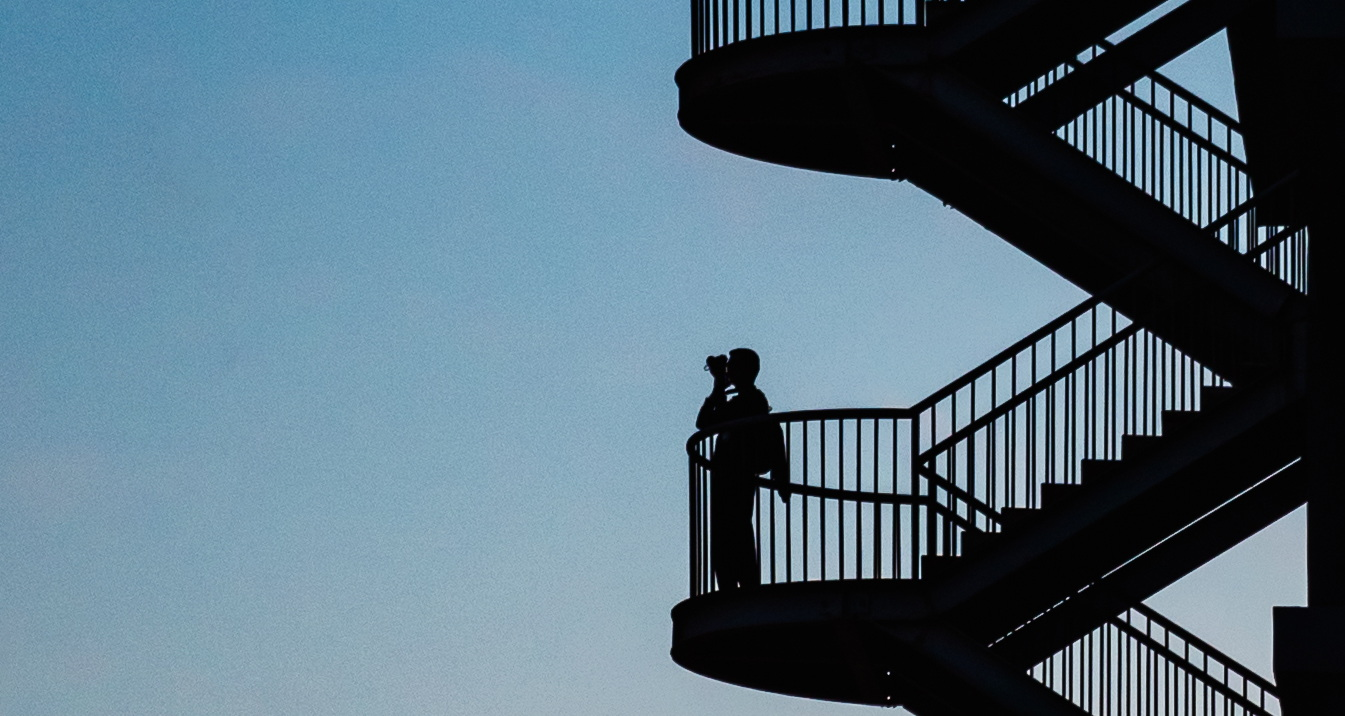
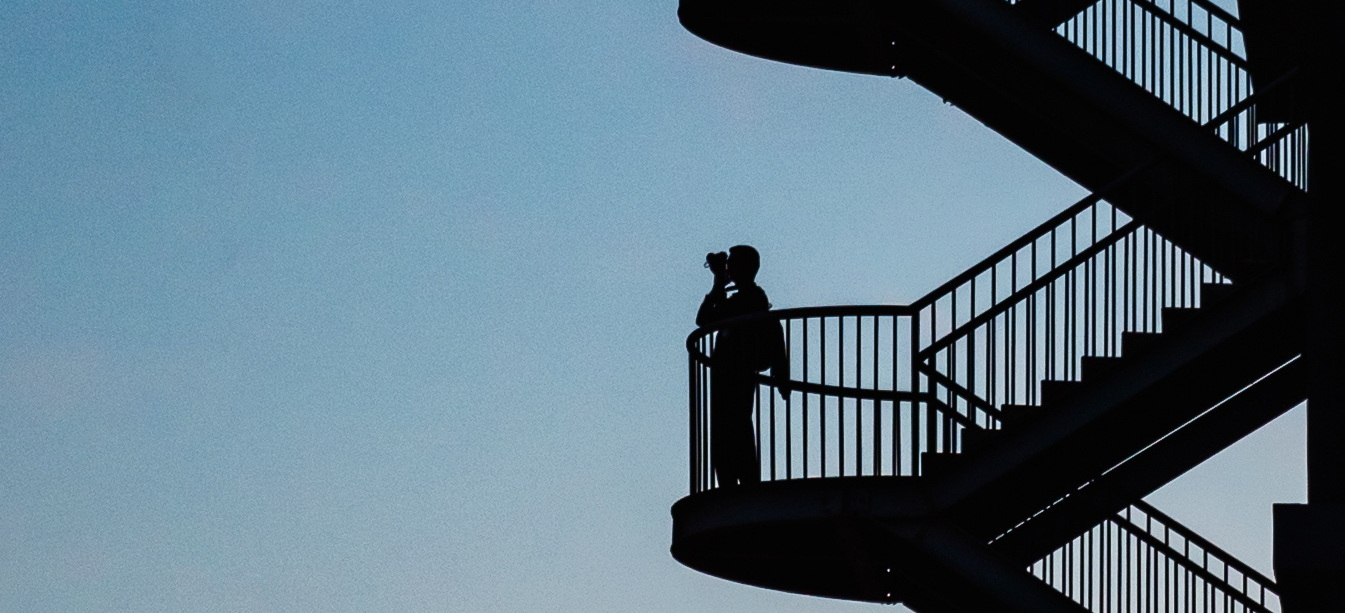
261116v1

diff --git a/static/css/main.css b/static/css/main.css
@@ -125,6 +125,7 @@ h1, h2, h3, h4, p { margin-top: 0; }
 .ranking-badge-b { color: #8c6bac; border-color: #e7ddf3; background: #f9f5fe; }
 .highlight-badge { color: #9f7932; border-color: #ebdfc7; background: #fdf8eb; }
 .format-badge { color: #5c8b81; border-color: #dae9e4; background: #f4faf7; }
+.preprint-badge { color: #626d7f; border-color: #e1e5eb; background: #f1f3f6; }
 .publication-links { display: flex; flex-wrap: wrap; gap: 7px; font-size: 0; }
 .publication-links a { display: inline-flex; align-items: center; gap: 5px; padding: 3px 8px; border: 1px solid #e0e7f1; border-radius: 5px; color: #61758d; font-size: 10px; font-weight: 500; text-decoration: none; background: #fff; transition: border-color .2s, color .2s; }
 .publication-links a:hover { color: var(--blue); border-color: #b9d1f0; }

diff --git a/static/js/scripts.js b/static/js/scripts.js
@@ -190,6 +190,7 @@ function decoratePublications(container) {
         if (/CCF-?\s*B/i.test(label)) badge.classList.add("ranking-badge-b");
         if (/oral|spotlight/i.test(label)) badge.classList.add("highlight-badge");
         if (/poster/i.test(label)) badge.classList.add("format-badge");
+        if (/^(arxiv\b|preprint$)/i.test(label)) badge.classList.add("preprint-badge");
       });
       content.prepend(badges);
     }

diff --git a/contents/paper_fig/README.md b/contents/paper_fig/README.md
@@ -6,5 +6,6 @@ These files are served locally with the homepage. To replace a figure, overwrite
 - `aaai2026.png`: E-Logic Prompt framework figure from the [coauthor's publication page](https://scs.tju.edu.cn/jswz/wanliang/20260429/publications.html), using its [public figure image](https://scs.tju.edu.cn/jswz/wanliang/20260429/paper/image/2026/e-logic-prompt-unified-energy-logic-framework-for-continual-visual-question-answering.png).
 - `cvpr2026.png`: Figure 2 (Dynamic Alignment Graph Regularization) rendered from the authors' [CVPR 2026 paper](https://openaccess.thecvf.com/content/CVPR2026/papers/Tan_Towards_Dynamic_Modality_Alignment_in_Multimodal_Continual_Learning_CVPR_2026_paper.pdf), page 4.
 - `icme2026.png`: Original figure provided locally by Tianle Liu.
+- `ttd-hashing-memory.png`: Framework overview from the authors' [arXiv paper](https://arxiv.org/html/2503.10699v1), using its [original overview image](https://arxiv.org/html/2503.10699v1/overview.png). Paper: Fan Lyu, Tianle Liu, Zhang Zhang, Fuyuan Hu, Liang Wang, *Test-Time Discovery via Hashing Memory*, arXiv:2503.10699 (2025), CC BY 4.0.
 
 The homepage does not fetch any of these images from an external site at runtime.

diff --git a/contents/awards.md b/contents/awards.md
@@ -1,7 +1,5 @@
-- 一种视觉大模型持续更新方法及系统 CN 120162731 A
-
-- 一种神经网络模型中未知数据的发现方法、装置和设备 CN 120892881 A
-
-- 江苏省研究生科研创新计划立项 KYCX25_3572 —— 在线测试时新类发现的持续学习模型方法研究
-
 - 计算机技术与软件专业技术资格  高级资格  信息系统项目管理师
+- 2026年 研究生国家奖学金
+- 一种视觉大模型持续更新方法及系统 CN 120162731 A
+- 一种神经网络模型中未知数据的发现方法、装置和设备 CN 120892881 A
+- 江苏省研究生科研创新计划立项 KYCX25_3572 —— 在线测试时新类发现的持续学习模型方法研究

diff --git a/contents/publications.md b/contents/publications.md
@@ -35,3 +35,14 @@
   **Expansive Geometry Stabilization for Exemplar-free Continual Learning with Pre-trained Models**
 
   Yinying Mei\*, Linlan Zhao\*, **Tianle Liu**, Fenglei Xu, Fuyuan Hu, Fan Lyu
+
+- [![Overview of the prototype and locality-sensitive hashing classifiers for test-time discovery](contents/paper_fig/ttd-hashing-memory.png)](https://arxiv.org/abs/2503.10699)
+
+  `arXiv 2025` `Preprint`
+
+  **Test-Time Discovery via Hashing Memory**
+
+  Fan Lyu*, **Tianle Liu**\*, Zhang Zhang, Fuyuan Hu, Liang Wang
+
+  [Paper](https://arxiv.org/abs/2503.10699) · [Code](https://github.com/fanlyu/ttd)
+

diff --git a/contents/publications-all.md b/contents/publications-all.md
@@ -35,3 +35,13 @@
   **Expansive Geometry Stabilization for Exemplar-free Continual Learning with Pre-trained Models**
 
   Yinying Mei\*, Linlan Zhao\*, **Tianle Liu**, Fenglei Xu, Fuyuan Hu, Fan Lyu
+
+- [![Overview of the prototype and locality-sensitive hashing classifiers for test-time discovery](contents/paper_fig/ttd-hashing-memory.png)](https://arxiv.org/abs/2503.10699)
+
+  `arXiv 2025` `Preprint`
+
+  **Test-Time Discovery via Hashing Memory**
+
+  Fan Lyu, **Tianle Liu**, Zhang Zhang, Fuyuan Hu, Liang Wang
+
+  [Paper](https://arxiv.org/abs/2503.10699) · [Code](https://github.com/fanlyu/ttd)
